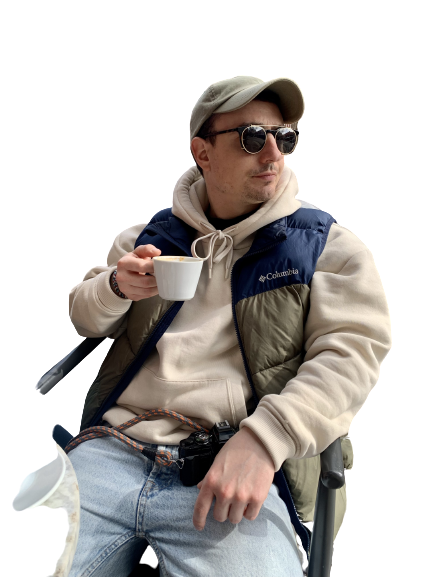
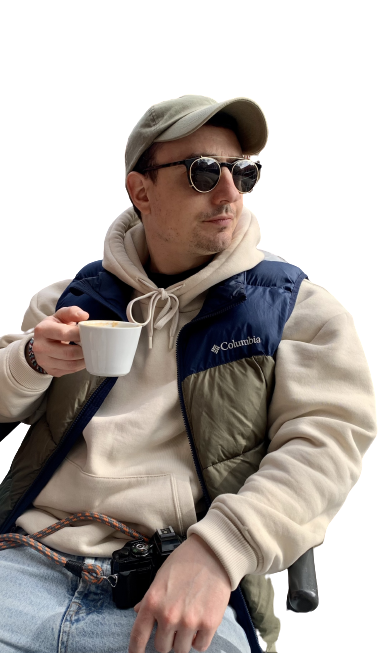
added atlas-wealth project

diff --git a/src/components/experience/Experience.jsx b/src/components/experience/Experience.jsx
@@ -16,42 +16,35 @@ const Experience = () => {
               <BsPatchCheckFill className="experience__details-icon" />
               <div>
                 <h4>HTML</h4>
-                <small className="text-light">Experienced</small>
+                <small className="text-light">Intermediate</small>
               </div>
             </article>
             <article className="experience__details">
               <BsPatchCheckFill className="experience__details-icon" />
               <div>
                 <h4>CSS</h4>
-                <small className="text-light">Experienced</small>
+                <small className="text-light">Intermediate</small>
               </div>
             </article>
             <article className="experience__details">
               <BsPatchCheckFill className="experience__details-icon" />
               <div>
                 <h4>JavaScript</h4>
-                <small className="text-light">Experienced</small>
+                <small className="text-light">Basic</small>
               </div>
             </article>
             <article className="experience__details">
               <BsPatchCheckFill className="experience__details-icon" />
               <div>
-                <h4>Bootstrap</h4>
-                <small className="text-light">Experienced</small>
-              </div>
-            </article>
-            <article className="experience__details">
-              <BsPatchCheckFill className="experience__details-icon" />
-              <div>
-                <h4>Tailwind</h4>
-                <small className="text-light">Experienced</small>
+                <h4>Material UI</h4>
+                <small className="text-light">Basic</small>
               </div>
             </article>
             <article className="experience__details">
               <BsPatchCheckFill className="experience__details-icon" />
               <div>
                 <h4>React</h4>
-                <small className="text-light">Experienced</small>
+                <small className="text-light">Intermediate</small>
               </div>
             </article>
           </div>
@@ -67,35 +60,35 @@ const Experience = () => {
               <BsPatchCheckFill className="experience__details-icon" />
               <div>
                 <h4>Node JS</h4>
-                <small className="text-light">Experienced</small>
+                <small className="text-light">Basic</small>
               </div>
             </article>
             <article className="experience__details">
               <BsPatchCheckFill className="experience__details-icon" />
               <div>
                 <h4>MongoDB</h4>
-                <small className="text-light">Experienced</small>
+                <small className="text-light">Basic</small>
               </div>
             </article>
             <article className="experience__details">
               <BsPatchCheckFill className="experience__details-icon" />
               <div>
                 <h4>PostgreSQL</h4>
-                <small className="text-light">Experienced</small>
+                <small className="text-light">Intermediate</small>
               </div>
             </article>
             <article className="experience__details">
               <BsPatchCheckFill className="experience__details-icon" />
               <div>
                 <h4>Python</h4>
-                <small className="text-light">Experienced</small>
+                <small className="text-light">Intermediate</small>
               </div>
             </article>
             <article className="experience__details">
               <BsPatchCheckFill className="experience__details-icon" />
               <div>
                 <h4>Express JS</h4>
-                <small className="text-light">Experienced</small>
+                <small className="text-light">Basic</small>
               </div>
             </article>
           </div>

diff --git a/src/components/about/About.jsx b/src/components/about/About.jsx
@@ -1,9 +1,10 @@
 import React from 'react';
 import './About.css';
 import ME from '../../assets/me-about.jpg';
-import { FaAward } from 'react-icons/fa';
-import { BsFillPeopleFill } from 'react-icons/bs';
-import { FaRegFolderOpen } from 'react-icons/fa';
+import { FaPeopleCarry } from 'react-icons/fa';
+import { HiOutlineLightBulb } from 'react-icons/hi';
+import { BiPaint } from 'react-icons/bi';
+import { BsMegaphone } from 'react-icons/bs';
 
 const About = () => {
   return (
@@ -14,34 +15,56 @@ const About = () => {
       <div className="container about__container">
         <div className="about__me">
           <div className="about__me-image">
-            <img src={ME} alt="About Image" />
+            <img src={ME} alt="About Me" />
           </div>
         </div>
 
         <div className="about__content">
           <div className="about__cards">
             <article className="about__card">
-              <FaAward className="about__icon" />
-              <h5>Experience</h5>
-              <small>3+ Years Working</small>
+              <FaPeopleCarry className="about__icon" />
+              <h5>Team Player</h5>
+              <small>
+                You can't grow without a team! It allows people with different
+                strengths to work together.
+              </small>
             </article>
             <article className="about__card">
-              <BsFillPeopleFill className="about__icon" />
-              <h5>Clients</h5>
-              <small>300+ World Wide</small>
+              <HiOutlineLightBulb className="about__icon" />
+              <h5>Innovative</h5>
+              <small>
+                Being enthusiastic to try new things and gain new skills drives
+                for a creative approach to problem solving.
+              </small>
             </article>
             <article className="about__card">
-              <FaRegFolderOpen className="about__icon" />
-              <h5>Projects</h5>
-              <small>Completed Projects</small>
+              <BiPaint className="about__icon" />
+              <h5>Creative</h5>
+              <small>
+                Passionate about creating and designing something that is not
+                only functional but beautiful.
+              </small>
+            </article>
+            <article className="about__card">
+              <BsMegaphone className="about__icon" />
+              <h5>Excellent Communicator</h5>
+              <small>
+                Effective communication is essential for managing great
+                relationships and working within a team.
+              </small>
             </article>
           </div>
 
           <p>
-            Lorem ipsum, dolor sit amet consectetur adipisicing elit. Maxime ab
-            nemo nisi a adipisci? Illo blanditiis asperiores unde corporis
-            dignissimos, magni quasi obcaecati provident explicabo consequuntur?
-            Labore voluptatum minus cumque!
+            Innovative, task-driven Junior Software Developer looking to pursue
+            a successful new career in the technical sector. Currently enrolled
+            on the CodeClan Professional Software Development course continuing
+            my learning of the most in-demand software and web development
+            skills.
+          </p>
+          <p>
+            The idea that something I create can impact someone across the world
+            now, or in the future is what drives my passion for technology.
           </p>
 
           <a href="#contact" className="btn btn-primary">

diff --git a/src/components/header/HeaderSocials.jsx b/src/components/header/HeaderSocials.jsx
@@ -4,10 +4,14 @@ import { BsLinkedin, BsGithub } from 'react-icons/bs';
 const HeaderSocials = () => {
   return (
     <div className="header__socials">
-      <a href="https://linkedin.com" target="_blank">
+      <a
+        href="https://linkedin.com/in/rosscondie"
+        target="_blank"
+        rel="noreferrer"
+      >
         <BsLinkedin />
       </a>
-      <a href="https://github.com" target="_blank">
+      <a href="https://github.com/rosscondie" target="_blank" rel="noreferrer">
         <BsGithub />
       </a>
     </div>

diff --git a/src/components/about/About.css b/src/components/about/About.css
@@ -19,6 +19,7 @@
 }
 
 .about__me-image {
+  height: 105%;
   border-radius: 2rem;
   overflow: hidden;
   transform: rotate(10deg);
@@ -31,7 +32,7 @@
 
 .about__cards {
   display: grid;
-  grid-template-columns: repeat(3, 1fr);
+  grid-template-columns: repeat(2, 1fr);
   gap: 1.5rem;
 }
 
@@ -61,7 +62,7 @@
 }
 
 .about__card small {
-  font-size: 0.7rem;
+  font-size: 0.8rem;
   color: var(--color-light);
 }
 

diff --git a/src/App.jsx b/src/App.jsx
@@ -16,9 +16,9 @@ const App = () => {
       <Nav />
       <About />
       <Experience />
-      <Services />
+      {/* <Services /> */}
       <Portfolio />
-      <Testimonials />
+      {/* <Testimonials /> */}
       <Contact />
       <Footer />
     </>

diff --git a/src/components/portfolio/Portfolio.jsx b/src/components/portfolio/Portfolio.jsx
@@ -1,7 +1,7 @@
 import React from 'react';
 import './Portfolio.css';
 import IMG1 from '../../assets/portfolio1.jpg';
-import IMG2 from '../../assets/portfolio2.jpg';
+import IMG2 from '../../assets/atlas_wealth.screenshot.png';
 
 const data = [
   {
